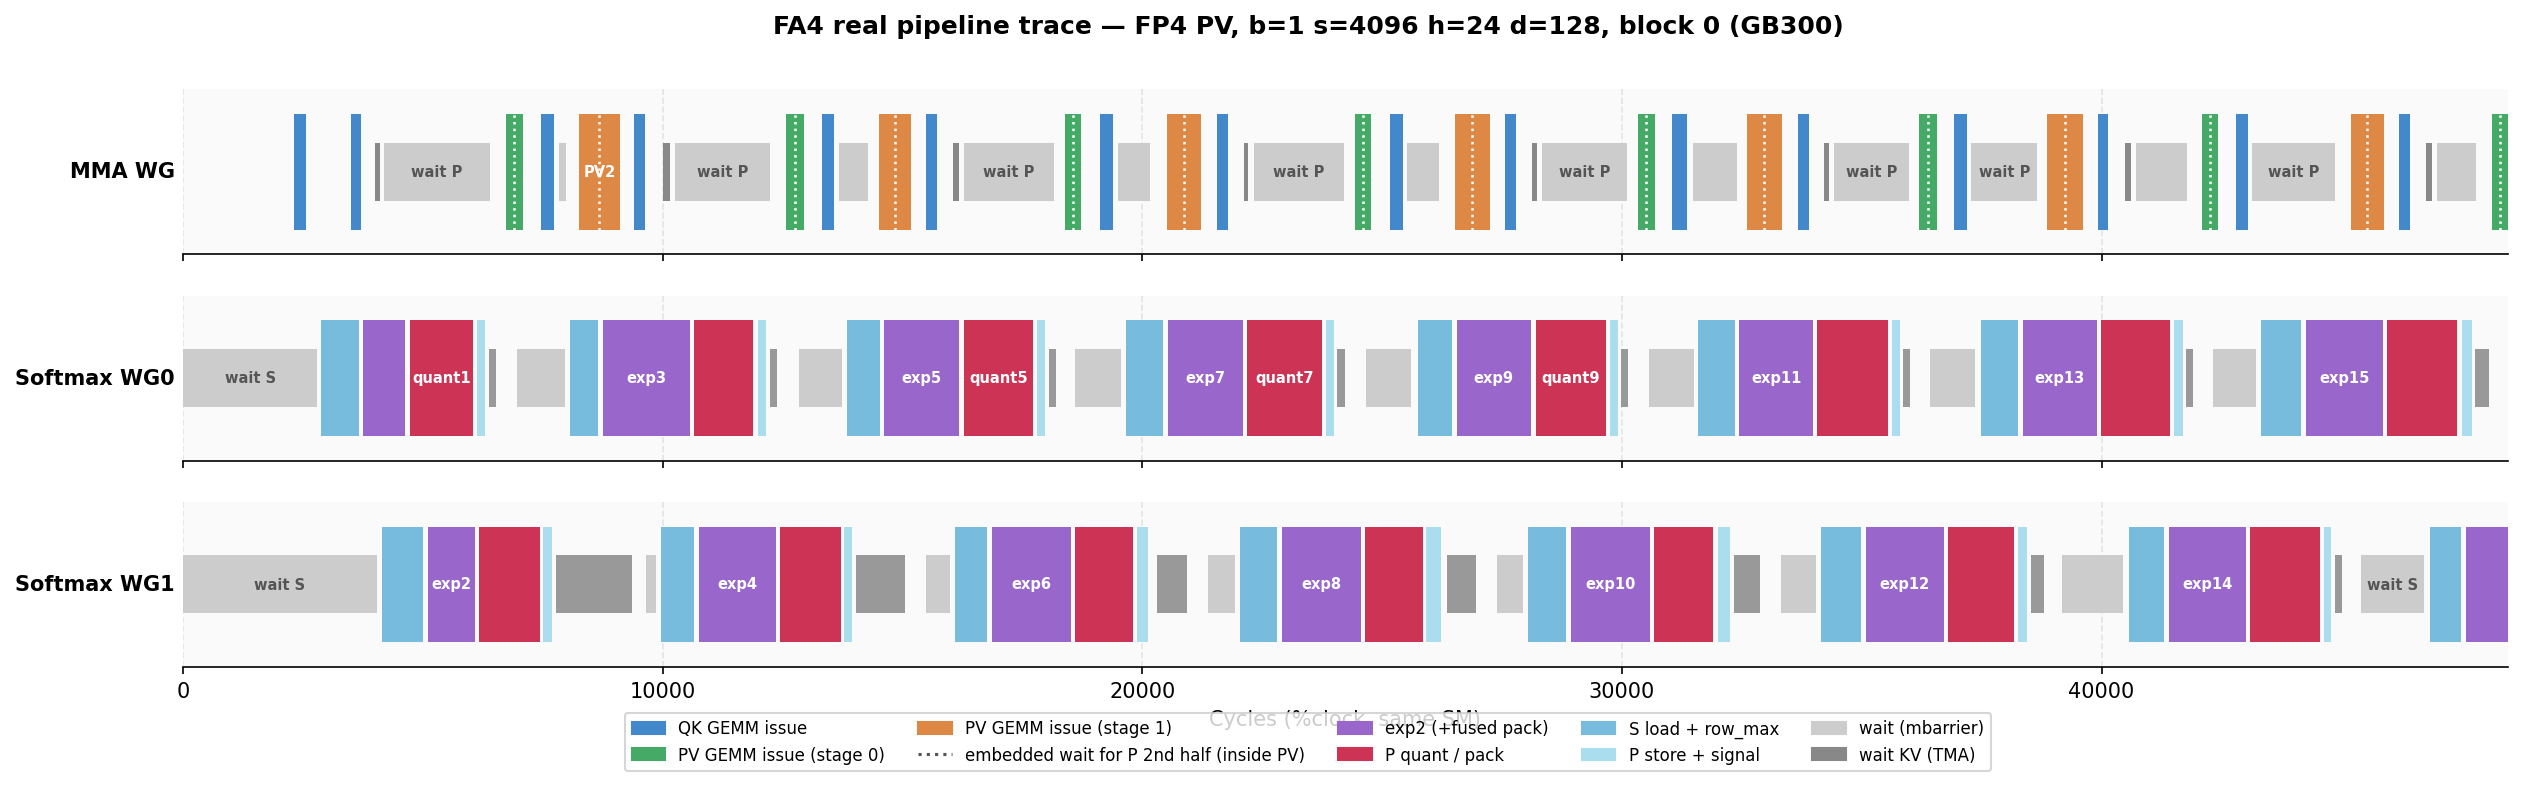
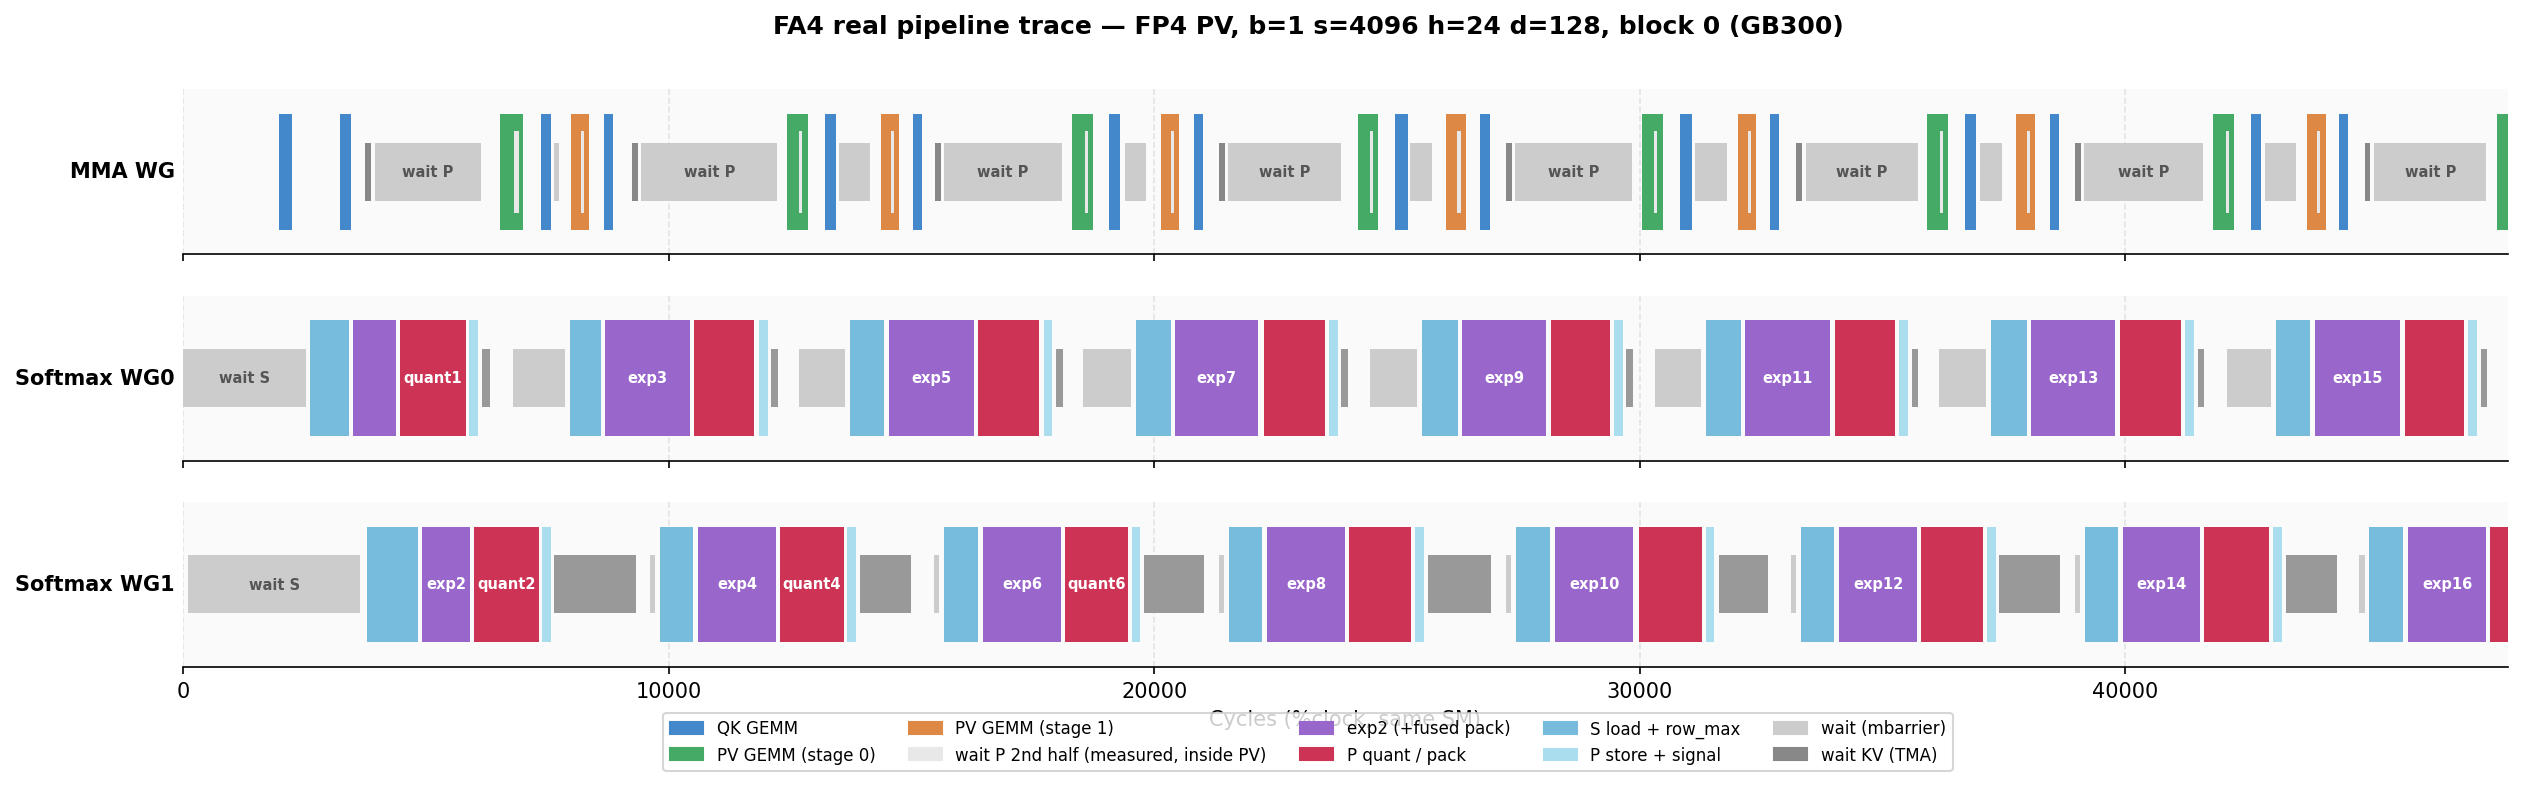
feat: measure the embedded P2 wait inside the PV GEMM, not guess it
gemm_ptx_partial / gemm_ptx_partial_fp4 take optional prof_ts_addrs: the
inline PTX stores %clock right before and after the mbar_P_full_2
try_wait loop into the trace buffer (tags pre-reserved by
prof_reserve_pair_ts). The trace draws the measured wait as a light-gray
overlay at its actual position inside the PV bar; the dotted midpoint
guess marker is removed and legend entries renamed to plain "QK GEMM" /
"PV GEMM".

Measured: wait-P2 is only 71-85 cycles mean across all PV modes (mbarrier
round-trip with P2 already signaled); the ~420-cycle PV baseline is
tcgen05 issue cost. This corrects the earlier doc claim that long PV
spans were the P2 wait.

diff --git a/flash_attn/cute/blackwell_helpers.py b/flash_attn/cute/blackwell_helpers.py
@@ -4,7 +4,7 @@ from dataclasses import dataclass, field
 
 import cutlass
 import cutlass.cute as cute
-from cutlass import Int32, Boolean, const_expr, Float32
+from cutlass import Int32, Int64, Boolean, const_expr, Float32
 from cutlass.cutlass_dsl import T
 from cutlass.cute.nvgpu import tcgen05
 from cutlass.cute.nvgpu.tcgen05 import OperandMajorMode
@@ -414,6 +414,9 @@ def gemm_ptx_partial(
     tA_addr: Optional[Int32] = None,
     cta_group: int = 1,
     pre_mbar_tiles: Optional[cutlass.Constexpr[int]] = None,
+    # (ts_addr_begin, ts_addr_end): global addresses where %clock is stored
+    # right before / after the embedded mbarrier wait (pipeline tracing).
+    prof_ts_addrs: Optional[tuple] = None,
 ) -> None:
     # acc_tmem_addr += acc_offset
     is_ts = op.a_src == cute.nvgpu.tcgen05.OperandSource.TMEM
@@ -547,14 +550,33 @@ def gemm_ptx_partial(
                 split_arrive_idx = cute.size(tCrA.shape[2]) // 4 * 3
             input_args.append(mbar_ptr.toint().ir_value())
             input_args.append(Int32(mbar_phase).ir_value())
-            mbar_wait_str = (
-                ".reg .pred P1; \n\t"
-                "LAB_WAIT: \n\t"
-                "mbarrier.try_wait.parity.shared::cta.b64 P1, [$4], $5, 10000000; \n\t"
-                "@P1 bra DONE; \n\t"
-                "bra     LAB_WAIT; \n\t"
-                "DONE: \n\t"
-            )
+            if const_expr(prof_ts_addrs is not None):
+                # Store %clock around the wait so the trace shows the actual
+                # measured wait window instead of an estimate.
+                input_args.append(Int64(prof_ts_addrs[0]).ir_value())
+                input_args.append(Int64(prof_ts_addrs[1]).ir_value())
+                mbar_wait_str = (
+                    ".reg .pred P1; \n\t"
+                    ".reg .b32 prof_clk; \n\t"
+                    "mov.u32 prof_clk, %clock; \n\t"
+                    "@leader_thread st.global.u32 [$6], prof_clk; \n\t"
+                    "LAB_WAIT: \n\t"
+                    "mbarrier.try_wait.parity.shared::cta.b64 P1, [$4], $5, 10000000; \n\t"
+                    "@P1 bra DONE; \n\t"
+                    "bra     LAB_WAIT; \n\t"
+                    "DONE: \n\t"
+                    "mov.u32 prof_clk, %clock; \n\t"
+                    "@leader_thread st.global.u32 [$7], prof_clk; \n\t"
+                )
+            else:
+                mbar_wait_str = (
+                    ".reg .pred P1; \n\t"
+                    "LAB_WAIT: \n\t"
+                    "mbarrier.try_wait.parity.shared::cta.b64 P1, [$4], $5, 10000000; \n\t"
+                    "@P1 bra DONE; \n\t"
+                    "bra     LAB_WAIT; \n\t"
+                    "DONE: \n\t"
+                )
         else:
             mbar_wait_str = ""
         llvm.inline_asm(
@@ -614,7 +636,9 @@ def gemm_ptx_partial(
                 else ""
             )
             + "}\n",
-            "r,r,r,r" if const_expr(mbar_ptr is None) else "r,r,r,r,r,r",
+            "r,r,r,r"
+            if const_expr(mbar_ptr is None)
+            else ("r,r,r,r,r,r" if const_expr(prof_ts_addrs is None) else "r,r,r,r,r,r,l,l"),
             has_side_effects=True,
             is_align_stack=False,
             asm_dialect=llvm.AsmDialect.AD_ATT,
@@ -1194,6 +1218,9 @@ def gemm_ptx_partial_fp4(
     zero_init: bool | Boolean = False,
     tA_addr: Optional[Int32] = None,
     pre_mbar_tiles: Optional[cutlass.Constexpr[int]] = None,
+    # (ts_addr_begin, ts_addr_end): global addresses where %clock is stored
+    # right before / after the embedded mbarrier wait (pipeline tracing).
+    prof_ts_addrs: Optional[tuple] = None,
 ) -> None:
     is_ts = op.a_src == cute.nvgpu.tcgen05.OperandSource.TMEM
     if const_expr(not is_ts):
@@ -1360,14 +1387,33 @@ def gemm_ptx_partial_fp4(
             assert mbar_phase is not None, "mbar_phase must be provided when mbar_ptr is not None"
             input_args.append(mbar_ptr.toint().ir_value())
             input_args.append(Int32(mbar_phase).ir_value())
-            mbar_wait_str = (
-                ".reg .pred P1; \n\t"
-                "LAB_WAIT: \n\t"
-                "mbarrier.try_wait.parity.shared::cta.b64 P1, [$6], $7, 10000000; \n\t"
-                "@P1 bra DONE; \n\t"
-                "bra     LAB_WAIT; \n\t"
-                "DONE: \n\t"
-            )
+            if const_expr(prof_ts_addrs is not None):
+                # Store %clock around the wait so the trace shows the actual
+                # measured wait window instead of an estimate.
+                input_args.append(Int64(prof_ts_addrs[0]).ir_value())
+                input_args.append(Int64(prof_ts_addrs[1]).ir_value())
+                mbar_wait_str = (
+                    ".reg .pred P1; \n\t"
+                    ".reg .b32 prof_clk; \n\t"
+                    "mov.u32 prof_clk, %clock; \n\t"
+                    "@leader_thread st.global.u32 [$8], prof_clk; \n\t"
+                    "LAB_WAIT: \n\t"
+                    "mbarrier.try_wait.parity.shared::cta.b64 P1, [$6], $7, 10000000; \n\t"
+                    "@P1 bra DONE; \n\t"
+                    "bra     LAB_WAIT; \n\t"
+                    "DONE: \n\t"
+                    "mov.u32 prof_clk, %clock; \n\t"
+                    "@leader_thread st.global.u32 [$9], prof_clk; \n\t"
+                )
+            else:
+                mbar_wait_str = (
+                    ".reg .pred P1; \n\t"
+                    "LAB_WAIT: \n\t"
+                    "mbarrier.try_wait.parity.shared::cta.b64 P1, [$6], $7, 10000000; \n\t"
+                    "@P1 bra DONE; \n\t"
+                    "bra     LAB_WAIT; \n\t"
+                    "DONE: \n\t"
+                )
         else:
             mbar_wait_str = ""
 
@@ -1443,7 +1489,9 @@ def gemm_ptx_partial_fp4(
                 else ""
             )
             + "}\n",
-            "r,r,r,r,r,r" if const_expr(mbar_ptr is None) else "r,r,r,r,r,r,r,r",
+            "r,r,r,r,r,r"
+            if const_expr(mbar_ptr is None)
+            else ("r,r,r,r,r,r,r,r" if const_expr(prof_ts_addrs is None) else "r,r,r,r,r,r,r,r,l,l"),
             has_side_effects=True,
             is_align_stack=False,
             asm_dialect=llvm.AsmDialect.AD_ATT,

diff --git a/flash_attn/cute/flash_fwd_sm100_fp4.py b/flash_attn/cute/flash_fwd_sm100_fp4.py
@@ -2445,15 +2445,26 @@ class FlashAttentionForwardSm100:
 
                         if const_expr(prof is not None):
                             prof_k = fa4_prof.prof_record(prof_buf, prof_bg, prof_stride, prof_tag, prof_k, fa4_prof.EVT_PV_GEMM, fa4_prof.EVENT_BEGIN, prof_pred)
-                        gemm_Pi[stage](
-                            tCrB=tOrVi,
-                            sB=sV_cur,
-                            zero_init=not O_should_accumulate,
-                            mbar_ptr=mbar_ptr + self.mbar_P_full_2_offset + stage,
-                            mbar_phase=P_full_O_rescaled_phase,
-                        )
-                        if const_expr(prof is not None):
+                            # The PV issue sequence embeds a wait for P's 2nd
+                            # half; the GEMM's PTX stores %clock around it.
+                            prof_k, _pts_b, _pts_e = fa4_prof.prof_reserve_pair_ts(prof_buf, prof_bg, prof_stride, prof_tag, prof_k, fa4_prof.EVT_PV_WAIT_P2, prof_pred)
+                            gemm_Pi[stage](
+                                tCrB=tOrVi,
+                                sB=sV_cur,
+                                zero_init=not O_should_accumulate,
+                                mbar_ptr=mbar_ptr + self.mbar_P_full_2_offset + stage,
+                                mbar_phase=P_full_O_rescaled_phase,
+                                prof_ts_addrs=(_pts_b, _pts_e),
+                            )
                             prof_k = fa4_prof.prof_record(prof_buf, prof_bg, prof_stride, prof_tag, prof_k, fa4_prof.EVT_PV_GEMM, fa4_prof.EVENT_END, prof_pred)
+                        else:
+                            gemm_Pi[stage](
+                                tCrB=tOrVi,
+                                sB=sV_cur,
+                                zero_init=not O_should_accumulate,
+                                mbar_ptr=mbar_ptr + self.mbar_P_full_2_offset + stage,
+                                mbar_phase=P_full_O_rescaled_phase,
+                            )
 
                         # 4. release accumulated O0_partial / O1_partial
                         # Don't need to signal O_full to the correction warps anymore since the
@@ -2571,15 +2582,24 @@ class FlashAttentionForwardSm100:
                     _zi_post = not O_should_accumulate
                     if const_expr(prof is not None):
                         prof_k = fa4_prof.prof_record(prof_buf, prof_bg, prof_stride, prof_tag, prof_k, fa4_prof.EVT_PV_GEMM, fa4_prof.EVENT_BEGIN, prof_pred)
-                    gemm_Pi[stage](
-                        tCrB=tOrVi,
-                        sB=sV_cur,
-                        zero_init=_zi_post,
-                        mbar_ptr=mbar_ptr + self.mbar_P_full_2_offset + stage,
-                        mbar_phase=P_full_O_rescaled_phase,
-                    )
-                    if const_expr(prof is not None):
+                        prof_k, _pts_b, _pts_e = fa4_prof.prof_reserve_pair_ts(prof_buf, prof_bg, prof_stride, prof_tag, prof_k, fa4_prof.EVT_PV_WAIT_P2, prof_pred)
+                        gemm_Pi[stage](
+                            tCrB=tOrVi,
+                            sB=sV_cur,
+                            zero_init=_zi_post,
+                            mbar_ptr=mbar_ptr + self.mbar_P_full_2_offset + stage,
+                            mbar_phase=P_full_O_rescaled_phase,
+                            prof_ts_addrs=(_pts_b, _pts_e),
+                        )
                         prof_k = fa4_prof.prof_record(prof_buf, prof_bg, prof_stride, prof_tag, prof_k, fa4_prof.EVT_PV_GEMM, fa4_prof.EVENT_END, prof_pred)
+                    else:
+                        gemm_Pi[stage](
+                            tCrB=tOrVi,
+                            sB=sV_cur,
+                            zero_init=_zi_post,
+                            mbar_ptr=mbar_ptr + self.mbar_P_full_2_offset + stage,
+                            mbar_phase=P_full_O_rescaled_phase,
+                        )
                     # 4. release accumulated O0_partial
                     # We do need O_full here since for the last tile, by the time the softmax warp
                     # has signaled to the correction warps, the softmax warp has just finished compute

diff --git a/flash_attn/cute/debug/trace_pipeline.py b/flash_attn/cute/debug/trace_pipeline.py
@@ -38,6 +38,7 @@ COLORS = {
     fa4_prof.EVT_SOFTMAX_WAIT_CORR: "#999999", # darker gray
     fa4_prof.EVT_MMA_WAIT_P: "#CCCCCC",        # gray
     fa4_prof.EVT_MMA_WAIT_KV: "#888888",       # dark gray
+    fa4_prof.EVT_PV_WAIT_P2: "#E8E8E8",        # light gray overlay on PV
 }
 
 LABELS = {
@@ -51,6 +52,7 @@ LABELS = {
     fa4_prof.EVT_SOFTMAX_WAIT_CORR: "wait corr",
     fa4_prof.EVT_MMA_WAIT_P: "wait P",
     fa4_prof.EVT_MMA_WAIT_KV: "wait KV",
+    fa4_prof.EVT_PV_WAIT_P2: "wait P2",
 }
 
 WAIT_EVENTS = {
@@ -171,40 +173,38 @@ def render(spans_by_bg, block, output_path, title, start_iter, num_iters):
 
             is_wait = evt in WAIT_EVENTS
             h = 0.35 if is_wait else 0.7
+            zorder = 2 if is_wait else 3
+            if evt == fa4_prof.EVT_PV_WAIT_P2:
+                # Measured embedded wait (%clock stored inside the GEMM's
+                # PTX around its mbar_P_full_2 try_wait) — drawn on top of
+                # the enclosing PV bar at its actual position.
+                h, zorder = 0.5, 4
             vis_dur = vis_end - vis_start
             ax.add_patch(Rectangle(
                 (vis_start - w0, 0.5 - h / 2), max(vis_dur, 1), h,
                 facecolor=color, edgecolor="none",
-                zorder=2 if is_wait else 3,
+                zorder=zorder,
             ))
-            if grp == fa4_prof.GRP_MMA and evt == fa4_prof.EVT_PV_GEMM:
-                # Mid-bar dotted divider: the PV issue sequence embeds a wait
-                # for the 2nd half of P (mbar_P_full_2 in gemm_ptx_partial)
-                # roughly here — long PV bars are that wait, not a slower GEMM.
-                cx = vis_start - w0 + vis_dur / 2
-                ax.plot([cx, cx], [0.5 - h / 2, 0.5 + h / 2],
-                        linestyle=":", color="white", linewidth=1.2, zorder=5)
             # Label only when the bar is wide enough for the text
             # (~2550 usable px at figsize 20in x 150dpi).
             bar_px = vis_dur * 2550.0 / (w1 - w0)
+            dark_text = is_wait or evt == fa4_prof.EVT_PV_WAIT_P2
             if label and bar_px >= 10 * len(label) + 8:
                 ax.text(vis_start - w0 + vis_dur / 2, 0.5, label,
                         ha="center", va="center", fontsize=7,
-                        color="white" if not is_wait else "#555555",
-                        fontweight="bold", zorder=4, clip_on=True)
+                        color="#555555" if dark_text else "white",
+                        fontweight="bold", zorder=6, clip_on=True)
 
         ax.set_xlim(0, w1 - w0)
 
     axes[-1].set_xlabel("Cycles (%clock, same SM)")
     fig.suptitle(title, fontsize=12, fontweight="bold")
 
-    from matplotlib.lines import Line2D
     legend = [
-        mpatches.Patch(color="#4488CC", label="QK GEMM issue"),
-        mpatches.Patch(color="#44AA66", label="PV GEMM issue (stage 0)"),
-        mpatches.Patch(color="#DD8844", label="PV GEMM issue (stage 1)"),
-        Line2D([0], [0], color="#555555", linestyle=":", linewidth=1.5,
-               label="embedded wait for P 2nd half (inside PV)"),
+        mpatches.Patch(color="#4488CC", label="QK GEMM"),
+        mpatches.Patch(color="#44AA66", label="PV GEMM (stage 0)"),
+        mpatches.Patch(color="#DD8844", label="PV GEMM (stage 1)"),
+        mpatches.Patch(color="#E8E8E8", label="wait P 2nd half (measured, inside PV)"),
         mpatches.Patch(color="#9966CC", label="exp2 (+fused pack)"),
         mpatches.Patch(color="#CC3355", label="P quant / pack"),
         mpatches.Patch(color="#77BBDD", label="S load + row_max"),

diff --git a/flash_attn/cute/profiler.py b/flash_attn/cute/profiler.py
@@ -22,7 +22,7 @@ import os
 
 import cutlass
 import cutlass.cute as cute
-from cutlass import Int32
+from cutlass import Int32, Int64
 from cutlass.cutlass_dsl import T, dsl_user_op
 from cutlass.cute.arch import llvm
 
@@ -127,6 +127,39 @@ def prof_record(
     return k + 1
 
 
+@cute.jit
+def prof_reserve_pair_ts(
+    prof: cute.Tensor,
+    bg_index: Int32,
+    stride: Int32,
+    tag_base: Int32,
+    k: Int32,
+    event_idx: cutlass.Constexpr[int],
+    pred,
+):
+    """Reserve a BEGIN/END pair at slots k and k+1, writing only the tags.
+
+    Returns (k + 2, ts_addr_begin, ts_addr_end): the global addresses of the
+    two timestamp ints, to be filled by device code that knows the actual
+    event boundaries (e.g. %clock stores inside a GEMM's inline PTX around
+    its embedded mbarrier wait). Out-of-range slots are redirected to the
+    last entry pair of the buffer as a sacrificial scratch slot.
+    """
+    slot_b = 2 + 2 * (bg_index + k * stride)
+    slot_e = 2 + 2 * (bg_index + (k + 1) * stride)
+    last_ok = cute.size(prof.shape) - 2
+    if slot_e + 1 >= cute.size(prof.shape):
+        slot_b = last_ok
+        slot_e = last_ok
+    if pred:
+        prof[slot_b] = tag_base | Int32((event_idx << 2) | 0)  # EVENT_BEGIN
+        prof[slot_e] = tag_base | Int32((event_idx << 2) | 1)  # EVENT_END
+    base = Int64(prof.iterator.toint())
+    ts_addr_b = base + Int64(slot_b + 1) * 4
+    ts_addr_e = base + Int64(slot_e + 1) * 4
+    return k + 2, ts_addr_b, ts_addr_e
+
+
 # Event type constants
 EVENT_BEGIN = 0
 EVENT_END = 1
@@ -146,11 +179,12 @@ EVT_MMA_SIGNAL_S = 9     # (unused)
 EVT_SOFTMAX_WAIT_CORR = 10  # softmax WG: wait for correction empty
 EVT_EPILOGUE = 11        # (unused)
 EVT_MMA_WAIT_KV = 12     # MMA WG: pipeline_kv consumer wait (TMA load)
+EVT_PV_WAIT_P2 = 13      # MMA WG: embedded wait for P 2nd half inside PV GEMM
 
 EVENT_NAMES = [
     "QK GEMM", "PV GEMM", "exp2", "P quant", "load+row_max", "row_sum",
     "wait S", "store P", "wait P", "signal S", "wait corr", "epilogue",
-    "wait KV",
+    "wait KV", "wait P2",
 ]
 
 # WG group indices

diff --git a/flash_attn/cute/debug/b300_fp4_pv_analysis.md b/flash_attn/cute/debug/b300_fp4_pv_analysis.md
@@ -144,13 +144,19 @@ Real-trace findings:
 - GEMM *issue* spans are short (250-560 cycles) — tcgen05 MMAs execute
   asynchronously, so the MMA WG's real exposure is the waits, exactly what
   the trace shows.
-- PV span lengths are bimodal (BF16 PV: ~450 cy fast mode, tail to 1222 cy).
-  The PV issue sequence embeds a second wait: softmax stores P in two halves
+- The PV issue sequence embeds a second wait: softmax stores P in two halves
   (`mbar_P_full_O_rescaled`, then `mbar_P_full_2`), and `gemm_ptx_partial`
   issues the first K-tiles, then `mbarrier.try_wait`s for the second half
-  before issuing the rest. Long PV bars = softmax late with P's 2nd half.
-  Stage-1 PVs stretch most (mean 615 vs 457 cy) because the MMA warp runs
-  the two stages back-to-back and catches up with softmax WG1's store.
+  before issuing the rest. This wait is now MEASURED directly — the GEMM's
+  inline PTX stores %clock right before and after the try_wait loop
+  (`prof_ts_addrs` in `gemm_ptx_partial`/`gemm_ptx_partial_fp4`), and the
+  trace draws it as a light-gray overlay at its actual position inside the
+  PV bar. Measured steady state: wait-P2 mean is only 71-85 cycles across
+  all three PV modes (the mbarrier round-trip when P's 2nd half is already
+  signaled), so the ~420-cycle PV-span baseline is tcgen05 issue cost, and
+  PV-span variance is dominated by issue backpressure, not the P2 wait.
+  (An earlier run without this measurement showed a 1222-cycle PV tail that
+  we wrongly attributed to the P2 wait — the measured data corrected this.)
 
 The MMA WG must complete the full PV+QK cycle before the softmax results
 from the same stage are needed again. With ping-pong, each softmax WG has
